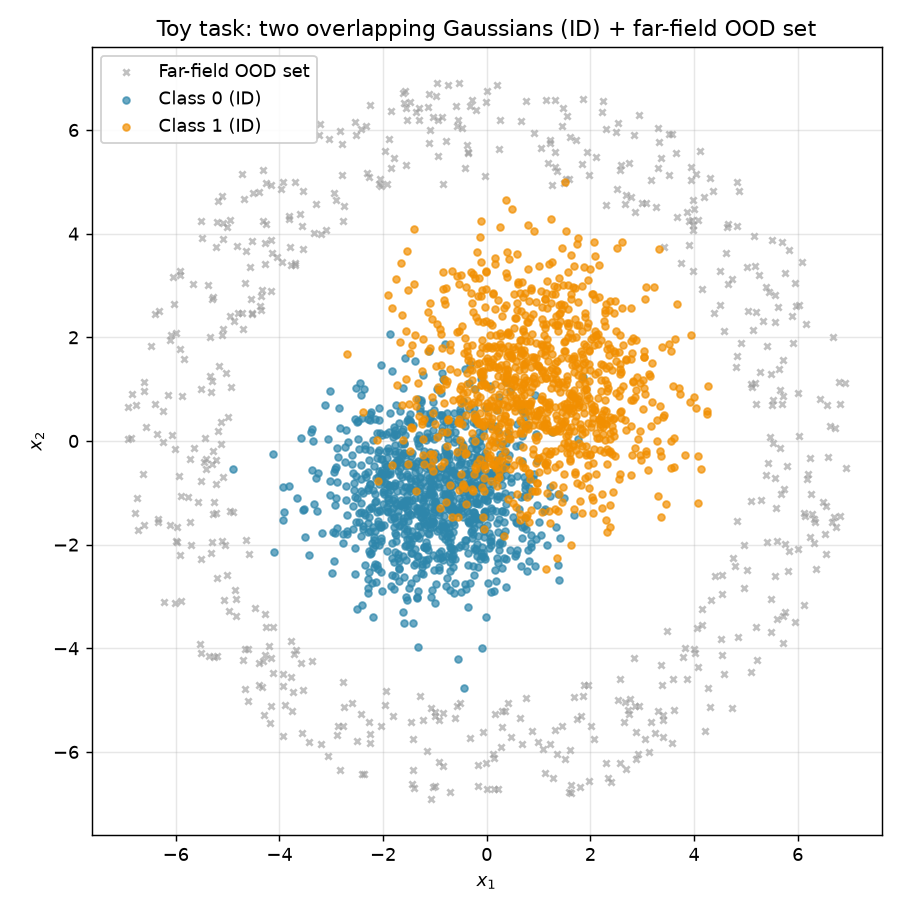
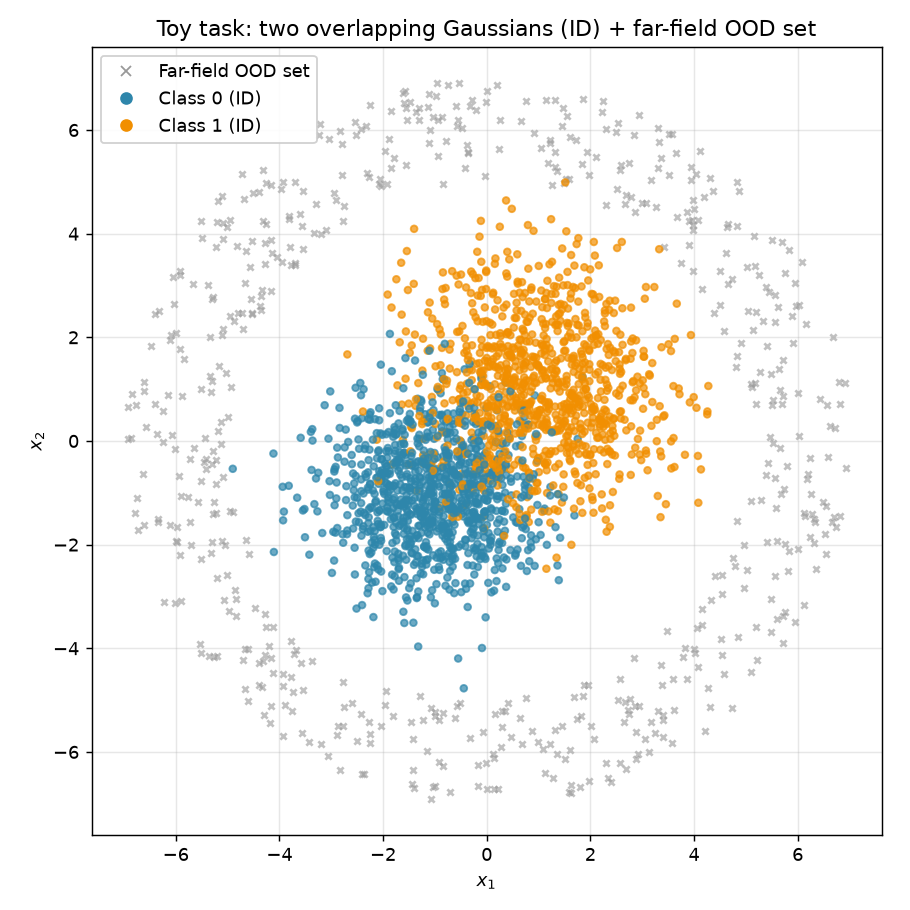
fix(toy-figure): randomize class draw order so overlap is visible
Plot both classes in one scatter using the generator's shuffled order
instead of class-by-class, so neither Gaussian fully occludes the other in
the overlap region (legend via proxy handles).

Changed region(s): [[0.3077, 0.2462, 0.7692, 0.7077], [0.1231, 0.0923, 0.1538, 0.1538], [0.7077, 0.3077, 0.7385, 0.3385]]

diff --git a/scripts/plot_toy_dataset.py b/scripts/plot_toy_dataset.py
@@ -13,9 +13,13 @@ import sys
 from pathlib import Path
 
 import matplotlib.pyplot as plt
+import numpy as np
+from matplotlib.lines import Line2D
 
 sys.path.insert(0, str(Path(__file__).resolve().parent.parent))
 from scripts.benchmark_toy import far_field_ood, generate_toy_dataset  # noqa: E402
+
+C0, C1 = "#2E86AB", "#F18F01"
 
 
 def main() -> None:
@@ -30,17 +34,22 @@ def main() -> None:
 
     fig, ax = plt.subplots(figsize=(7, 7))
     ax.scatter(X_ood[:, 0], X_ood[:, 1], s=12, c="0.6", marker="x",
-               alpha=0.6, label="Far-field OOD set", zorder=1)
-    ax.scatter(X[y == 0, 0], X[y == 0, 1], s=14, c="#2E86AB", alpha=0.7,
-               label="Class 0 (ID)", zorder=2)
-    ax.scatter(X[y == 1, 0], X[y == 1, 1], s=14, c="#F18F01", alpha=0.7,
-               label="Class 1 (ID)", zorder=2)
+               alpha=0.6, zorder=1)
+    # Single scatter in the generator's already-shuffled order so neither class
+    # systematically occludes the other in the overlap region.
+    colors = np.where(y == 0, C0, C1)
+    ax.scatter(X[:, 0], X[:, 1], s=14, c=colors, alpha=0.7, zorder=2)
 
     ax.set_aspect("equal")
     ax.set_xlabel("$x_1$")
     ax.set_ylabel("$x_2$")
     ax.set_title("Toy task: two overlapping Gaussians (ID) + far-field OOD set")
-    ax.legend(loc="upper left", framealpha=0.9)
+    handles = [
+        Line2D([0], [0], marker="x", color="0.6", linestyle="None", label="Far-field OOD set"),
+        Line2D([0], [0], marker="o", color=C0, linestyle="None", label="Class 0 (ID)"),
+        Line2D([0], [0], marker="o", color=C1, linestyle="None", label="Class 1 (ID)"),
+    ]
+    ax.legend(handles=handles, loc="upper left", framealpha=0.9)
     ax.grid(True, alpha=0.3)
     fig.tight_layout()
 